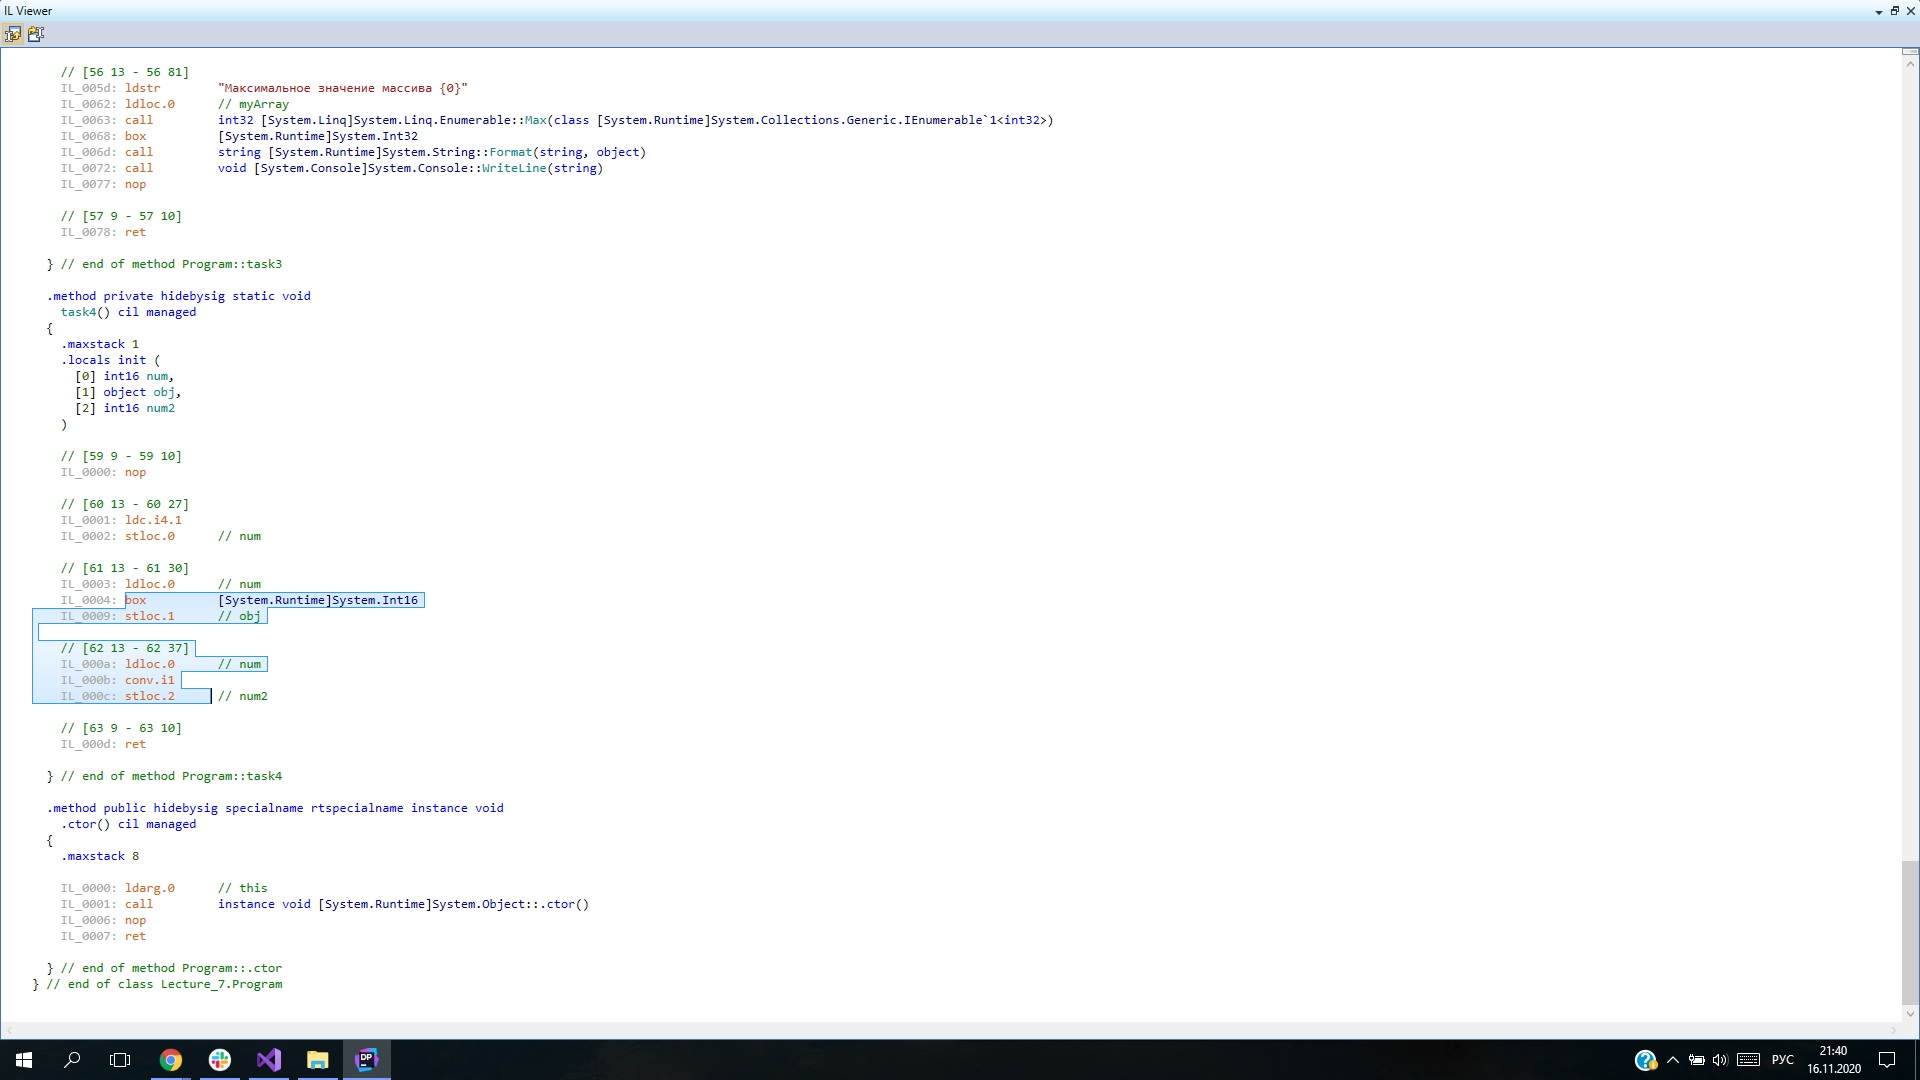
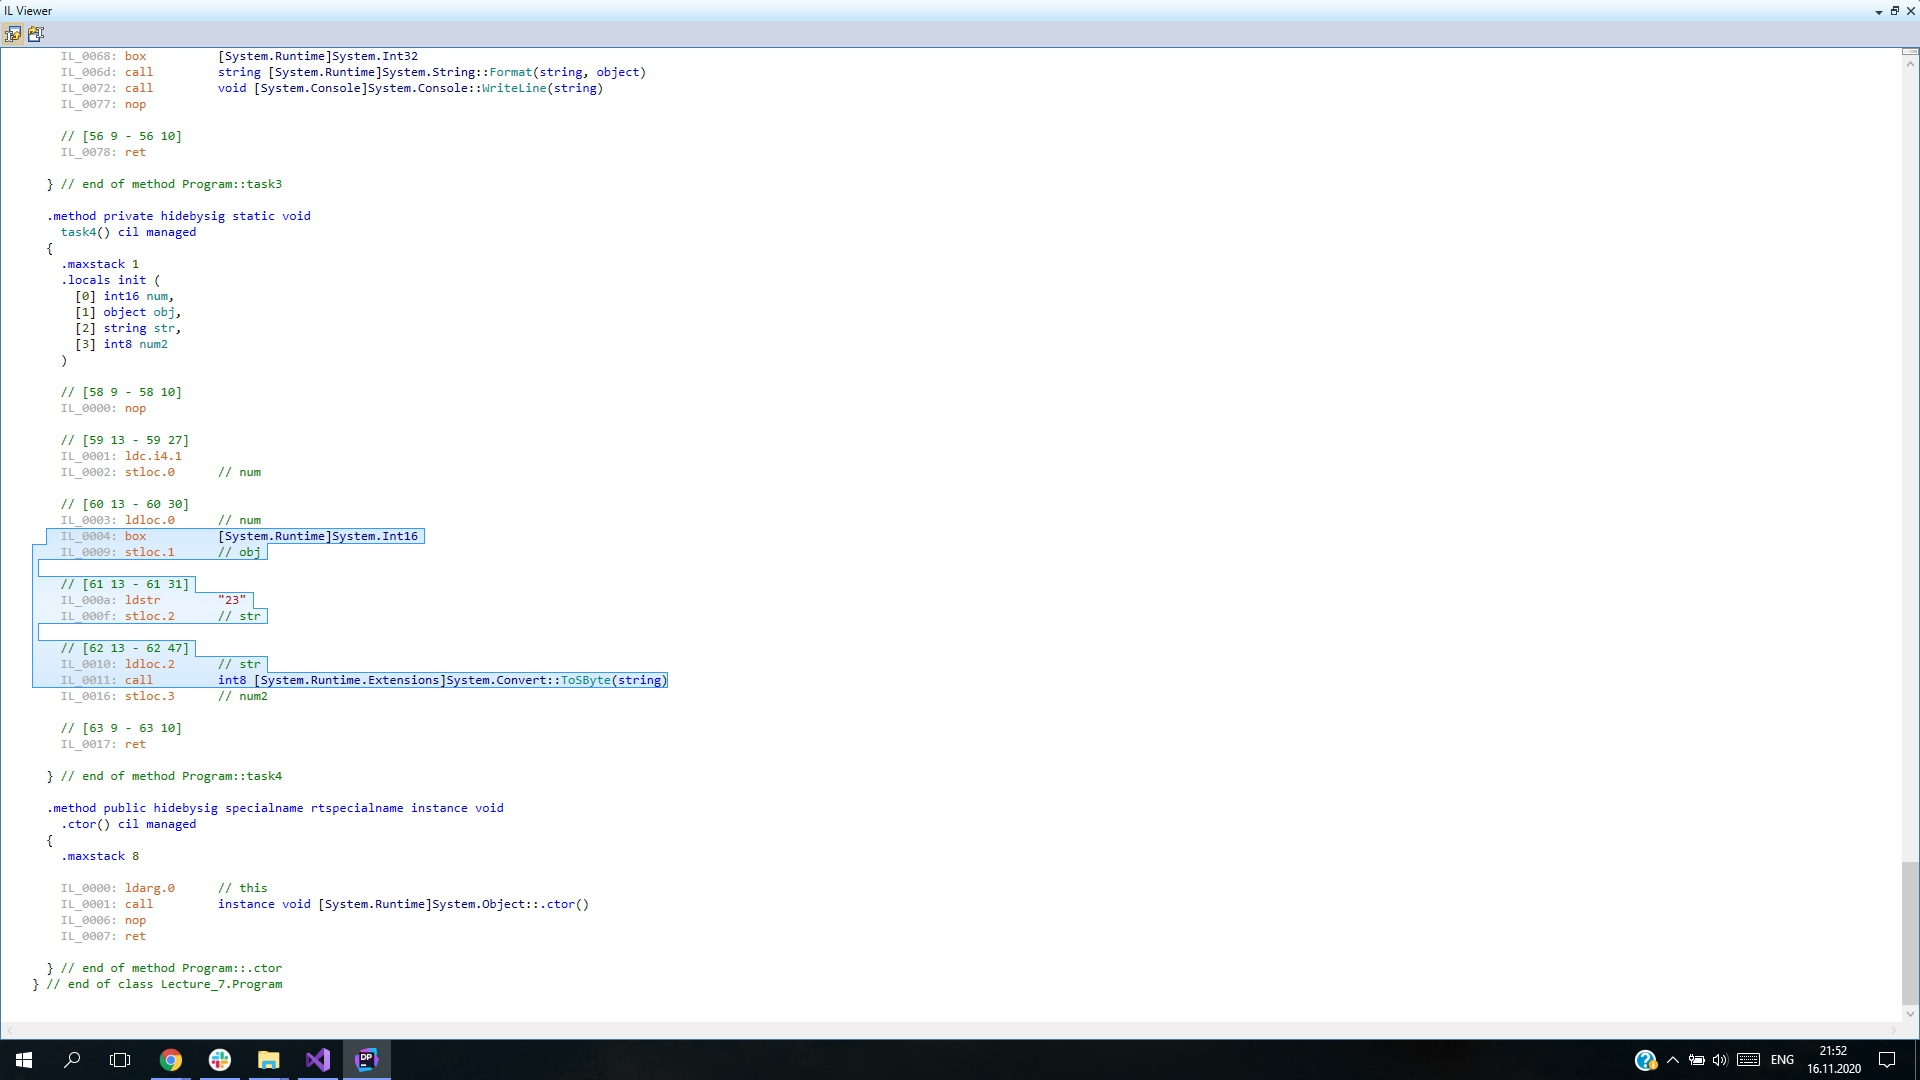
Chech Task4

diff --git a/lecture_7/Lecture_7/Lecture_7/Program.cs b/lecture_7/Lecture_7/Lecture_7/Program.cs
@@ -58,7 +58,8 @@ namespace Lecture_7
         {
             short num = 1;
             object obj = num;
-            short num2 = (sbyte)num;
+            string str = "23";
+            sbyte num2 = Convert.ToSByte(str);
         }
     }
 
